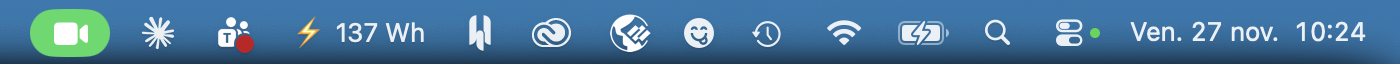
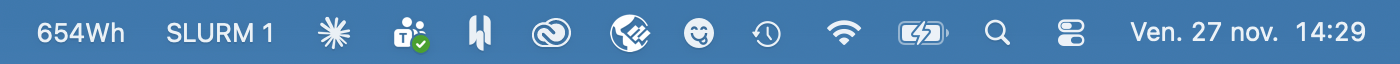
Redo the menu bar screenshot with the compact title

diff --git a/README.fr.md b/README.fr.md
@@ -94,9 +94,9 @@ calcul de la fenêtre du plugin, raccourcit alors le titre : sans éclair ni esp
 tenir, sans garantie. Le plugin reprend la langue affichée dans la page, et celle de macOS tant
 que la page n'a pas été ouverte.
 
-![Capture de la partie droite de la barre de menus : l'élément EnergIA, un éclair suivi de 137 Wh, parmi les autres icônes](docs/barre-de-menus.png)
+![Capture de la partie droite de la barre de menus : l'élément EnergIA en titre compact, « 654Wh » sans éclair, parmi les autres icônes](docs/barre-de-menus.png)
 
-*L'élément dans la barre de menus, ici avec 137 Wh estimés pour la journée en cours.*
+*L'élément dans la barre de menus, ici en titre compact, avec 654 Wh estimés pour la journée en cours.*
 
 Le plugin :
 

diff --git a/README.md b/README.md
@@ -91,9 +91,9 @@ threshold, the text turns red. This is often enough to make it fit, with no guar
 plugin uses the language shown in the page, and the language of macOS until the page has
 been opened.
 
-![Screenshot of the right-hand side of the menu bar: the EnergIA item, a lightning bolt followed by 137 Wh, among the other icons](docs/barre-de-menus.png)
+![Screenshot of the right-hand side of the menu bar: the EnergIA item with the compact title, “654Wh” without the bolt, among the other icons](docs/barre-de-menus.png)
 
-*The item in the menu bar, here with an estimated 137 Wh for the current day.*
+*The item in the menu bar, here with the compact title and an estimated 654 Wh for the current day.*
 
 The plugin:
 
